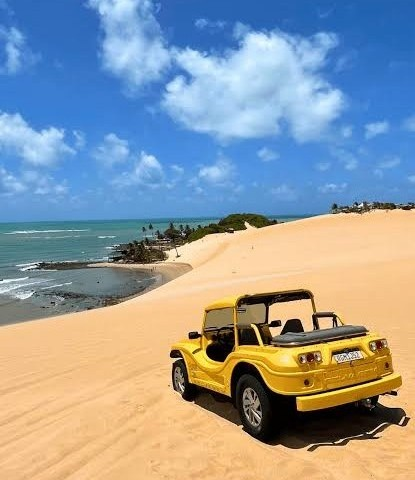
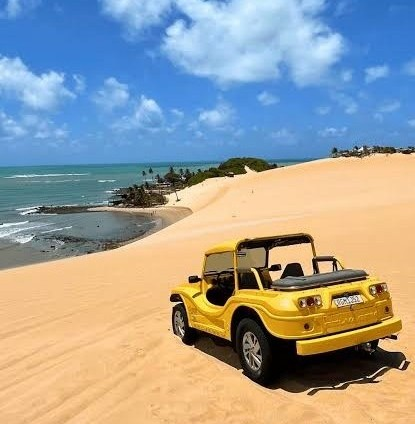
Melhora visual dos cards

diff --git a/style.css b/style.css
@@ -71,8 +71,15 @@ h3 {
 
 .destino {
   background-color: #f2f8fa;
-  padding: 20px;
-  margin-bottom: 20px;
+  border-radius: 12px;
+  overflow: hidden;
+  box-shadow: 0 4px 14px rgba(0, 0, 0, 0.08);
+  transition: transform 0.2s ease, box-shadow 0.2s ease;
+}
+
+.destino:hover {
+  transform: translateY(-4px);
+  box-shadow: 0 8px 20px rgba(0, 0, 0, 0.12);
 }
 
 .destinos-grid {
@@ -86,4 +93,18 @@ h3 {
   height: 220px;
   object-fit: cover;
   display: block;
+}
+
+.destino h3,
+.destino p {
+  margin-left: 20px;
+  margin-right: 20px;
+}
+
+.destino h3 {
+  margin-top: 20px;
+}
+
+.destino p {
+  margin-bottom: 20px;
 }
